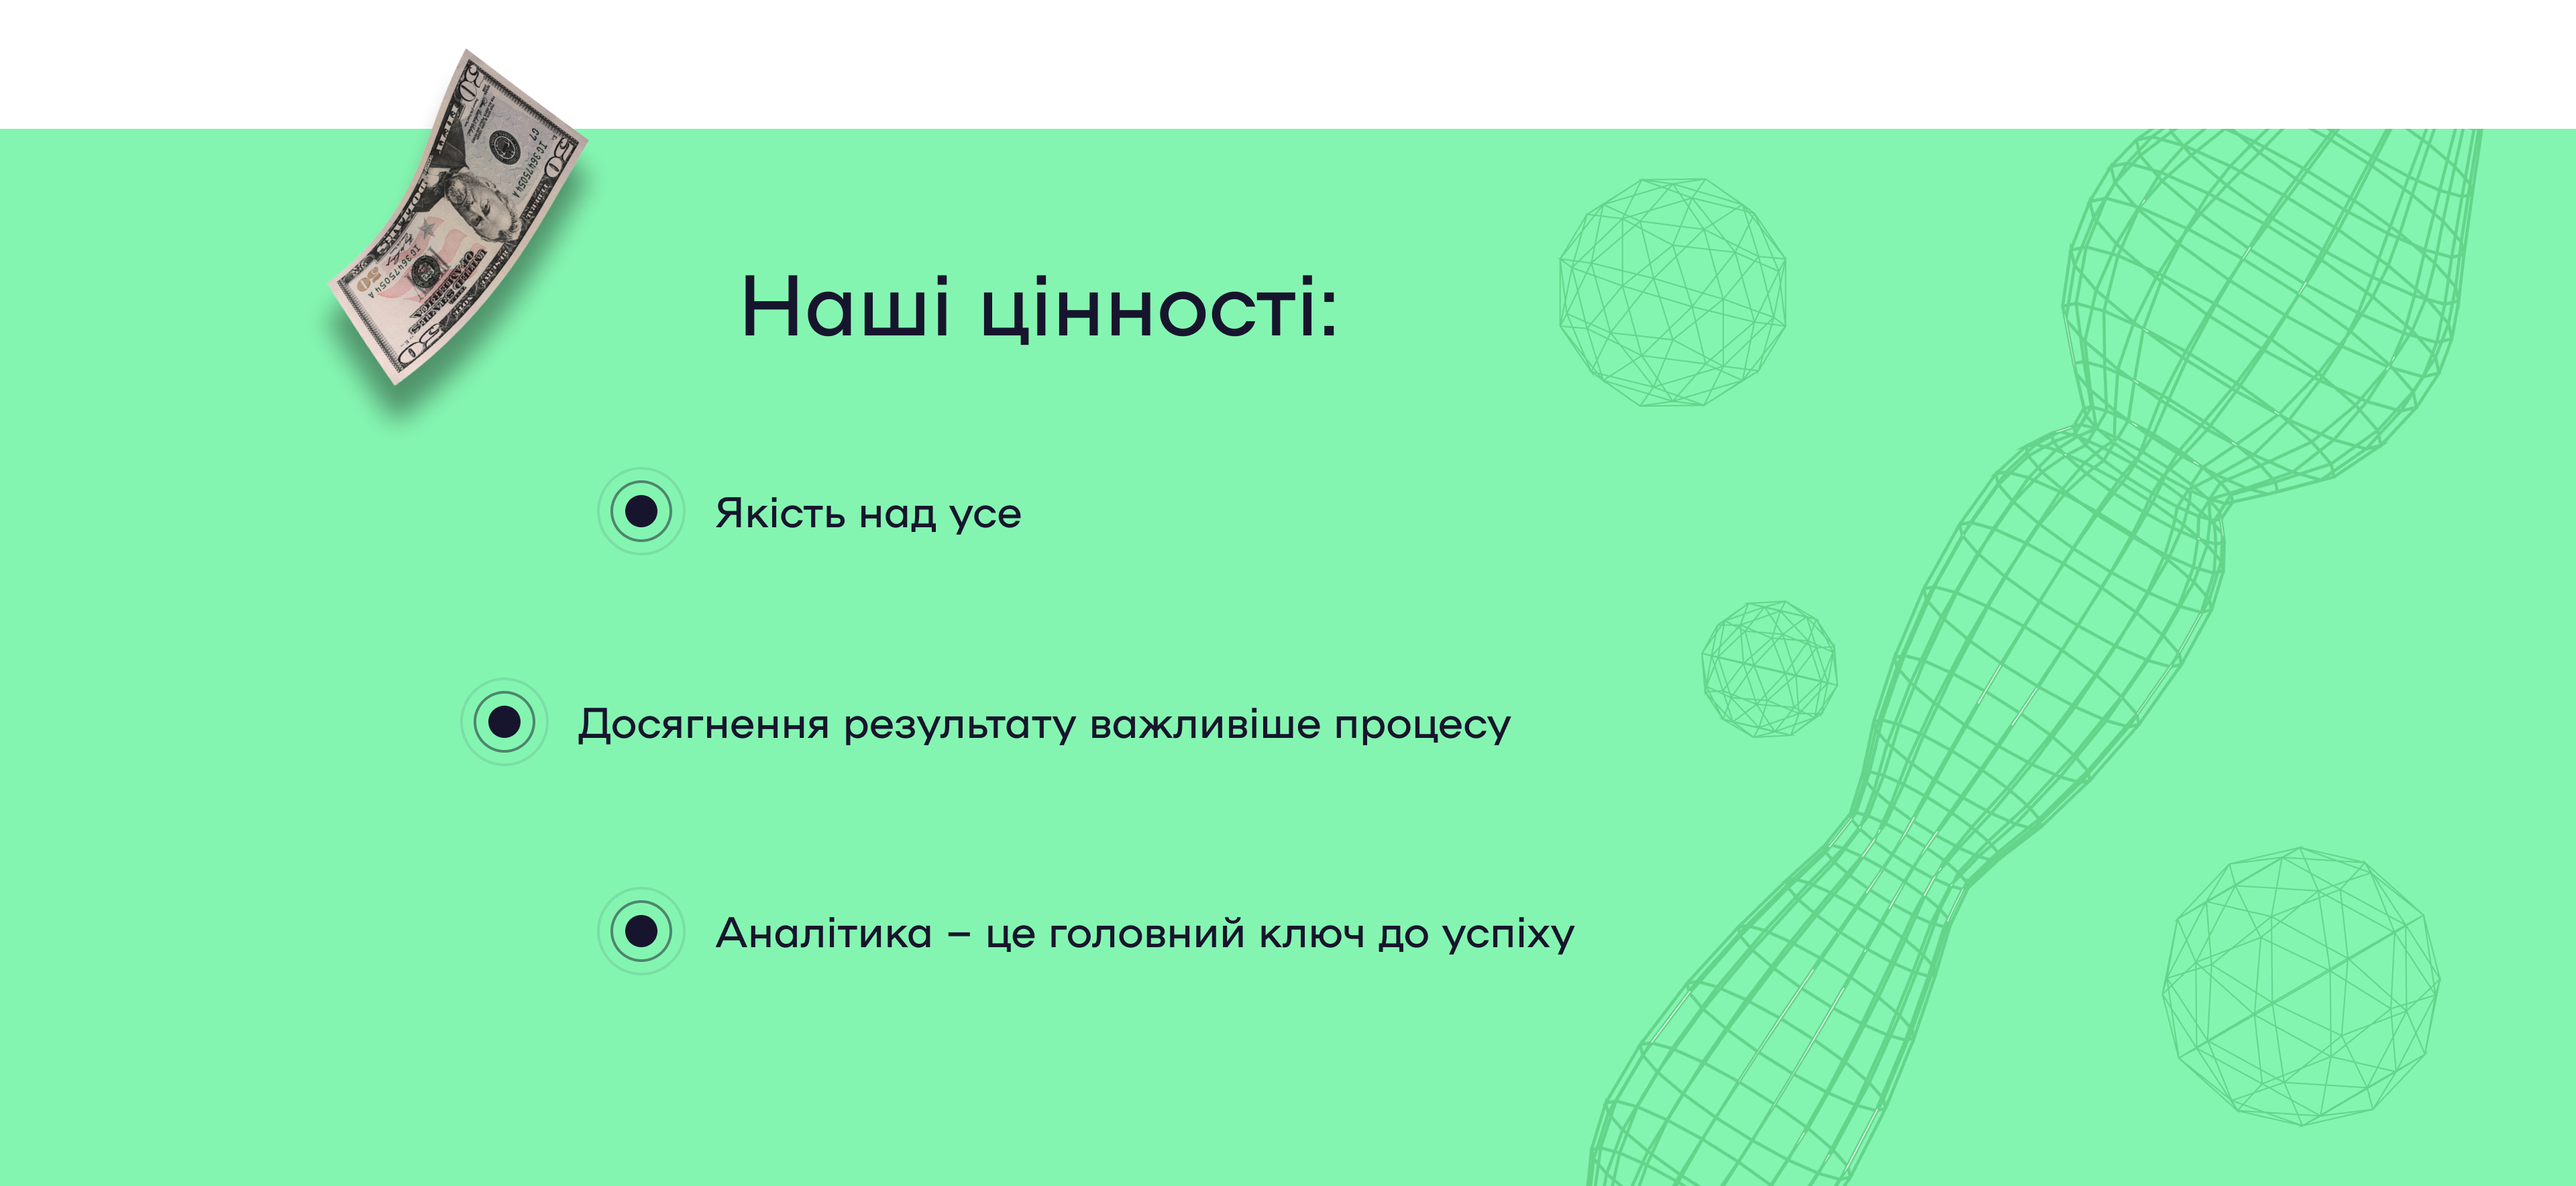
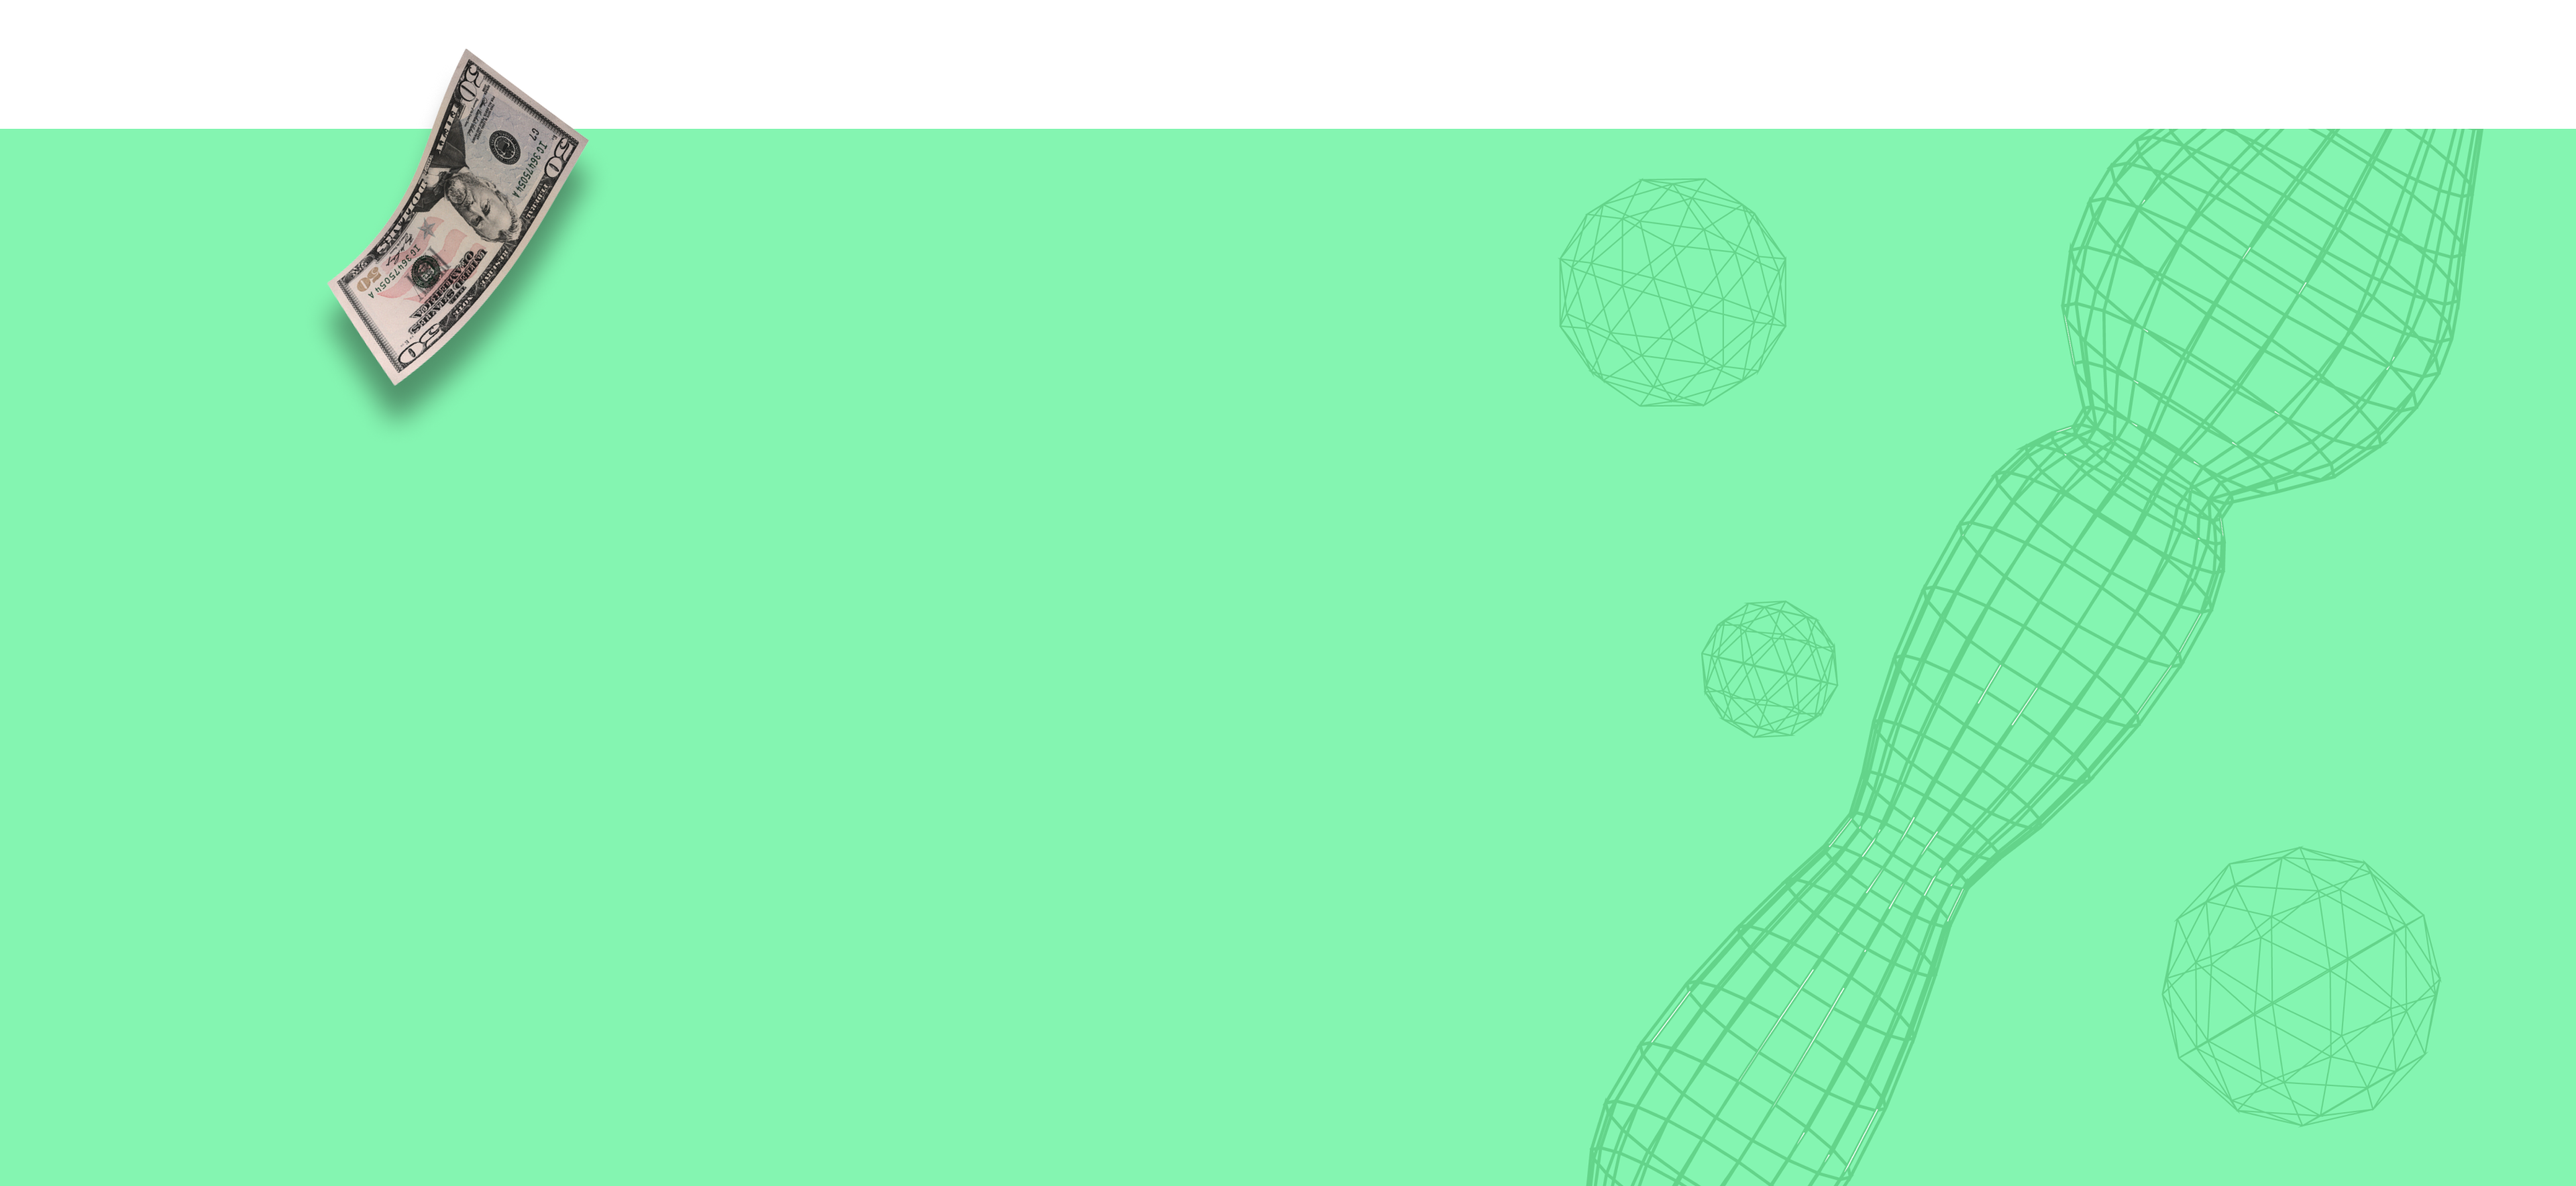
new

diff --git a/src/app/page.tsx b/src/app/page.tsx
@@ -5,40 +5,40 @@ import { benefitsList } from "@/config";
 export default function Home() {
   return (
     <div className="flex flex-col items-center min-h-screen overflow-auto bg-mainbg ">
-      <main className="flex flex-col items-center max-w-[1920px] w-screen min-h-[100dvh] bg-cover bg-top bg-[url('/images/background.png')] bg-no-repeat">
-        <div className="p-[150px] pt-[120px]">
-          <header className="flex justify-center items-center text-[81px] gap-8 mb-[200px]">
+      <main className="flex flex-col items-center max-w-[1920px] w-auto shadow-2xl min-h-[100dvh] bg-cover bg-top bg-[url('/images/background.png')] bg-no-repeat bordered">
+        <div className="p-10 md:pb-0 md:p-[100px] pt-[120px] ">
+          <header className="flex justify-center items-center  text-[30px] gap-8  lg:text-[81px] mb-[60px] xl:mb-[200px] lg:pl-[200px]">
             <img
               src="/images/logo.png"
               alt="xcelerate_logo"
-              className="h-[85px] w-auto"
+              className="max-h-[40px] lg:max-h-[85px] h-full w-auto"
             />
             <h1>
               {" "}
               <span className="text-primary">-</span> ЦЕ ПРО
             </h1>
 
-            <div className="h-[300px] flex items-end border-b-2 max-w-[350px] w-full">
+            <div className="lg:h-[300px] flex items-end border-b-2 lg:max-w-[350px] lg:w-full">
               <h1>
                 {"РУХ"}
                 <span className="text-[#F05262]">.</span>
               </h1>
             </div>
           </header>
-          <div className="max-w-[50%] text-[26px] mb-[190px]">
+          <div className="w-full lg:max-w-[50%] text-[26px] mb-[70px]">
             <p> Якість трафіку</p> - це наше кермо, що керує напрямком,
             <p> швидкість у всіх процесах</p> - це двигун, що прискорює наш
             прогрес, а <p>аналітика</p> - це мапа, яка допомагає нам зрозуміти,
             як досягти найвищих вершин.
           </div>
-          <div className="flex flex-col items-end text-primary pr-10 text-[95px]">
+          <div className="flex w-full lg:w-[93%] mb-10 items-end justify-end flex-col bg-left-bottom bg-contain bg-no-repeat text-primary text-[95px]  bg-[url('/images/mountain.png')]  h-screen max-h-[419px] ">
             <h1>ХТО</h1>
             <h1>
               МИ
               <span className="text-[#F05262]">?</span>
             </h1>
           </div>
-          <div className="w-full lg:max-w-[55%] text-[24px] mb-[120px] leading-7">
+          <div className="w-full lg:max-w-[55%] text-[24px] mb-[60px] xl:mb-[120px] leading-7">
             Ми - медіабаїнгова команда, яка за рік свого існування на ринку
             збудувала з нуля всі процеси та, створивши простір з усім необхідним
             для розвитку, масштабування й підкорення нових висот, стрімко вийшла
@@ -55,14 +55,19 @@ export default function Home() {
               зі швидкістю світла!
             </div>
           </div>
-          <div className="flex flex-col w-full justify-between lg:flex-row">
-            <div className="flex-1 text-[60px] leading-tight">
+          <div className="flex flex-col w-full justify-between xl:flex-row">
+            <div className="flex-1 text-[60px] leading-tight relative">
               <h1>
                 Що ти отримаєш, ставши частиною нашого <p>community:</p>
               </h1>
+              <img
+                src="/images/hand.png"
+                alt="hand image"
+                className=" left-[-150px] top-[150px] absolute hidden xl:inline"
+              />
             </div>
             <div className="flex-1">
-              <ul className="mt-[200px]">
+              <ul className="mt-[60px] xl:mt-[200px]">
                 {benefitsList.map((item) => (
                   <li className="flex gap-[70px] items-center mb-[70px] justify-start">
                     <i className="w-5">{item.icon}</i>
@@ -72,7 +77,37 @@ export default function Home() {
               </ul>
             </div>
           </div>
-          <div className="w-full bg-[url('/images/values.png')] h-full max-h-[880px]"></div>
+        </div>
+        <div className="w-full flex flex-col justify-center text-[#17152D]  bg-[url('/images/values.png')] bg-cover bg-top h-[870px] bg-no-repeat ">
+          <h1 className="text-[50px] mb-[100px]">Наші цінності:</h1>
+          <div className="flex flex-col gap-[80px] text-[28px]">
+            <div>Якість над усе</div>
+            <div>Досягнення результату важливіше процесу</div>
+            <div>Аналітика – це головний ключ до успіху</div>
+          </div>
+        </div>
+
+        <div className="w-full flex px-[150px] my-[80px] justify-between text-[23px] gap-10">
+          <div className=" p-5 flex justify-center items-center bg-top bg-[url('/images/border-box.png')] bg-contain bg-no-repeat    max-h-[170px]">
+            Динамічна тіма, яка завжди на хвилі передових технологій та
+            тенденцій в affiliate-індустрії
+          </div>
+          <div className="p-5 flex justify-center items-center bg-top bg-[url('/images/border-box.png')] bg-contain bg-no-repeat   w-auto max-h-[170px]">
+            Потужні джерела трафіку
+          </div>
+          <div className=" p-5 flex justify-center items-center bg-top bg-[url('/images/border-box.png')] bg-contain bg-no-repeat   max-h-[170px]">
+            Тіммейти з великим досвідом, в оточенні яких постійно примножуються
+            цінні знання
+          </div>
+        </div>
+
+        <div className="w-full h-[310px]   bg-[url('/images/vacancy.png')] bg-center bg-contain bg-no-repeat mb-[200px]" />
+
+        <div className="flex flex-col gap-5 items-center p-10 h-[60vh]">
+          <p className="text-center uppercase text-[85px]">
+            Приєднуйся до команди
+          </p>
+          <h2 className="text-[35px]">Тут можеш залишити своє CV</h2>
         </div>
       </main>
     </div>

diff --git a/src/components/ui/Button.module.scss b/src/components/ui/Button.module.scss
@@ -1,4 +1,8 @@
 .button{
-    @apply flex items-center justify-center bg-primary rounded-full py-2 px-10 text-[#1C1330] ;
-    @apply text-[28px] shadow-current shadow;
+    @apply  bg-primary rounded-full py-3 px-10 text-[#1C1330] text-[28px] scale-105 ;
+    box-shadow: 0px 2px 28.5px rgba(132, 245, 177, 0.29);
+
+
+   
 }
+

diff --git a/src/app/globals.css b/src/app/globals.css
@@ -12,6 +12,7 @@
 html{
   font-family: Namu;
   color: #fff;
+  @apply bg-mainbg;
 }
 
 
